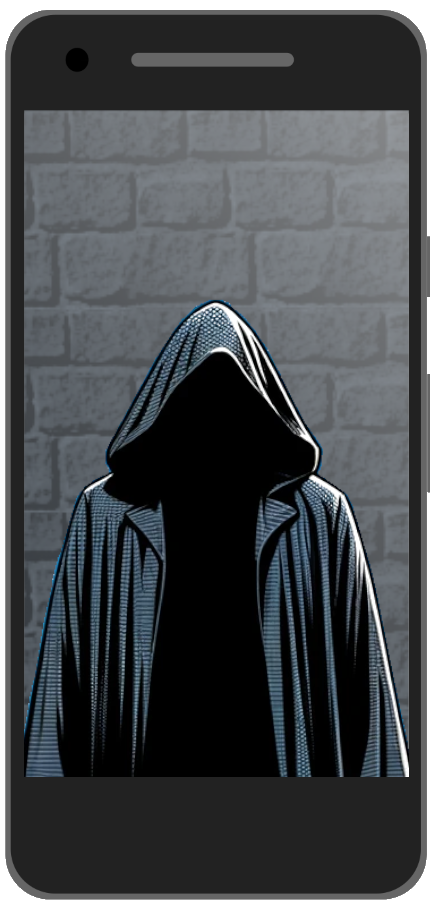
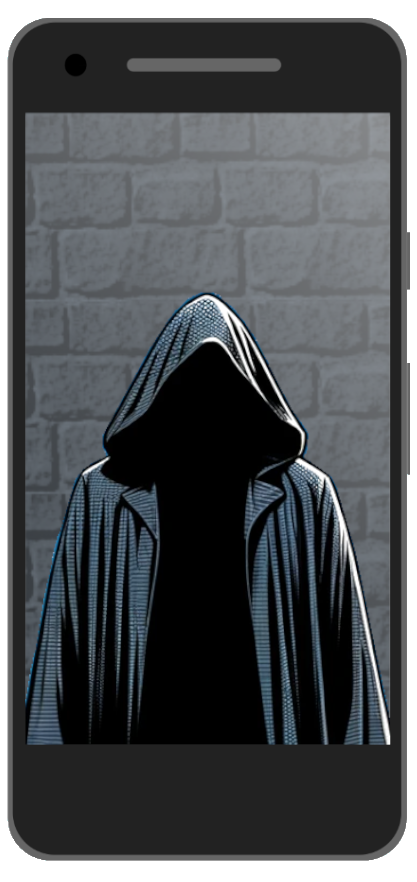
578 updated images

Changed region(s): [[0.0, 0.0, 0.9976, 1.0]]

diff --git a/frontend/src/components/Overlay/MissionInformation.tsx b/frontend/src/components/Overlay/MissionInformation.tsx
@@ -2,7 +2,7 @@ import { useState } from 'react';
 
 import { LEVELS } from '@src/Levels';
 import Handler from '@src/assets/images/handler.png';
-import Lawyer from '@src/assets/images/laywer.png';
+import Lawyer from '@src/assets/images/lawyer.png';
 import Manager from '@src/assets/images/manager.png';
 import OverlayButton from '@src/components/ThemedButtons/OverlayButton';
 import { LEVEL_NAMES } from '@src/models/level';

diff --git a/frontend/src/components/Overlay/MissionInformation.css b/frontend/src/components/Overlay/MissionInformation.css
@@ -22,7 +22,6 @@
 
 .speaker-image {
 	object-fit: contain;
-	max-width: 15%;
 	height: 80%;
 }
 
